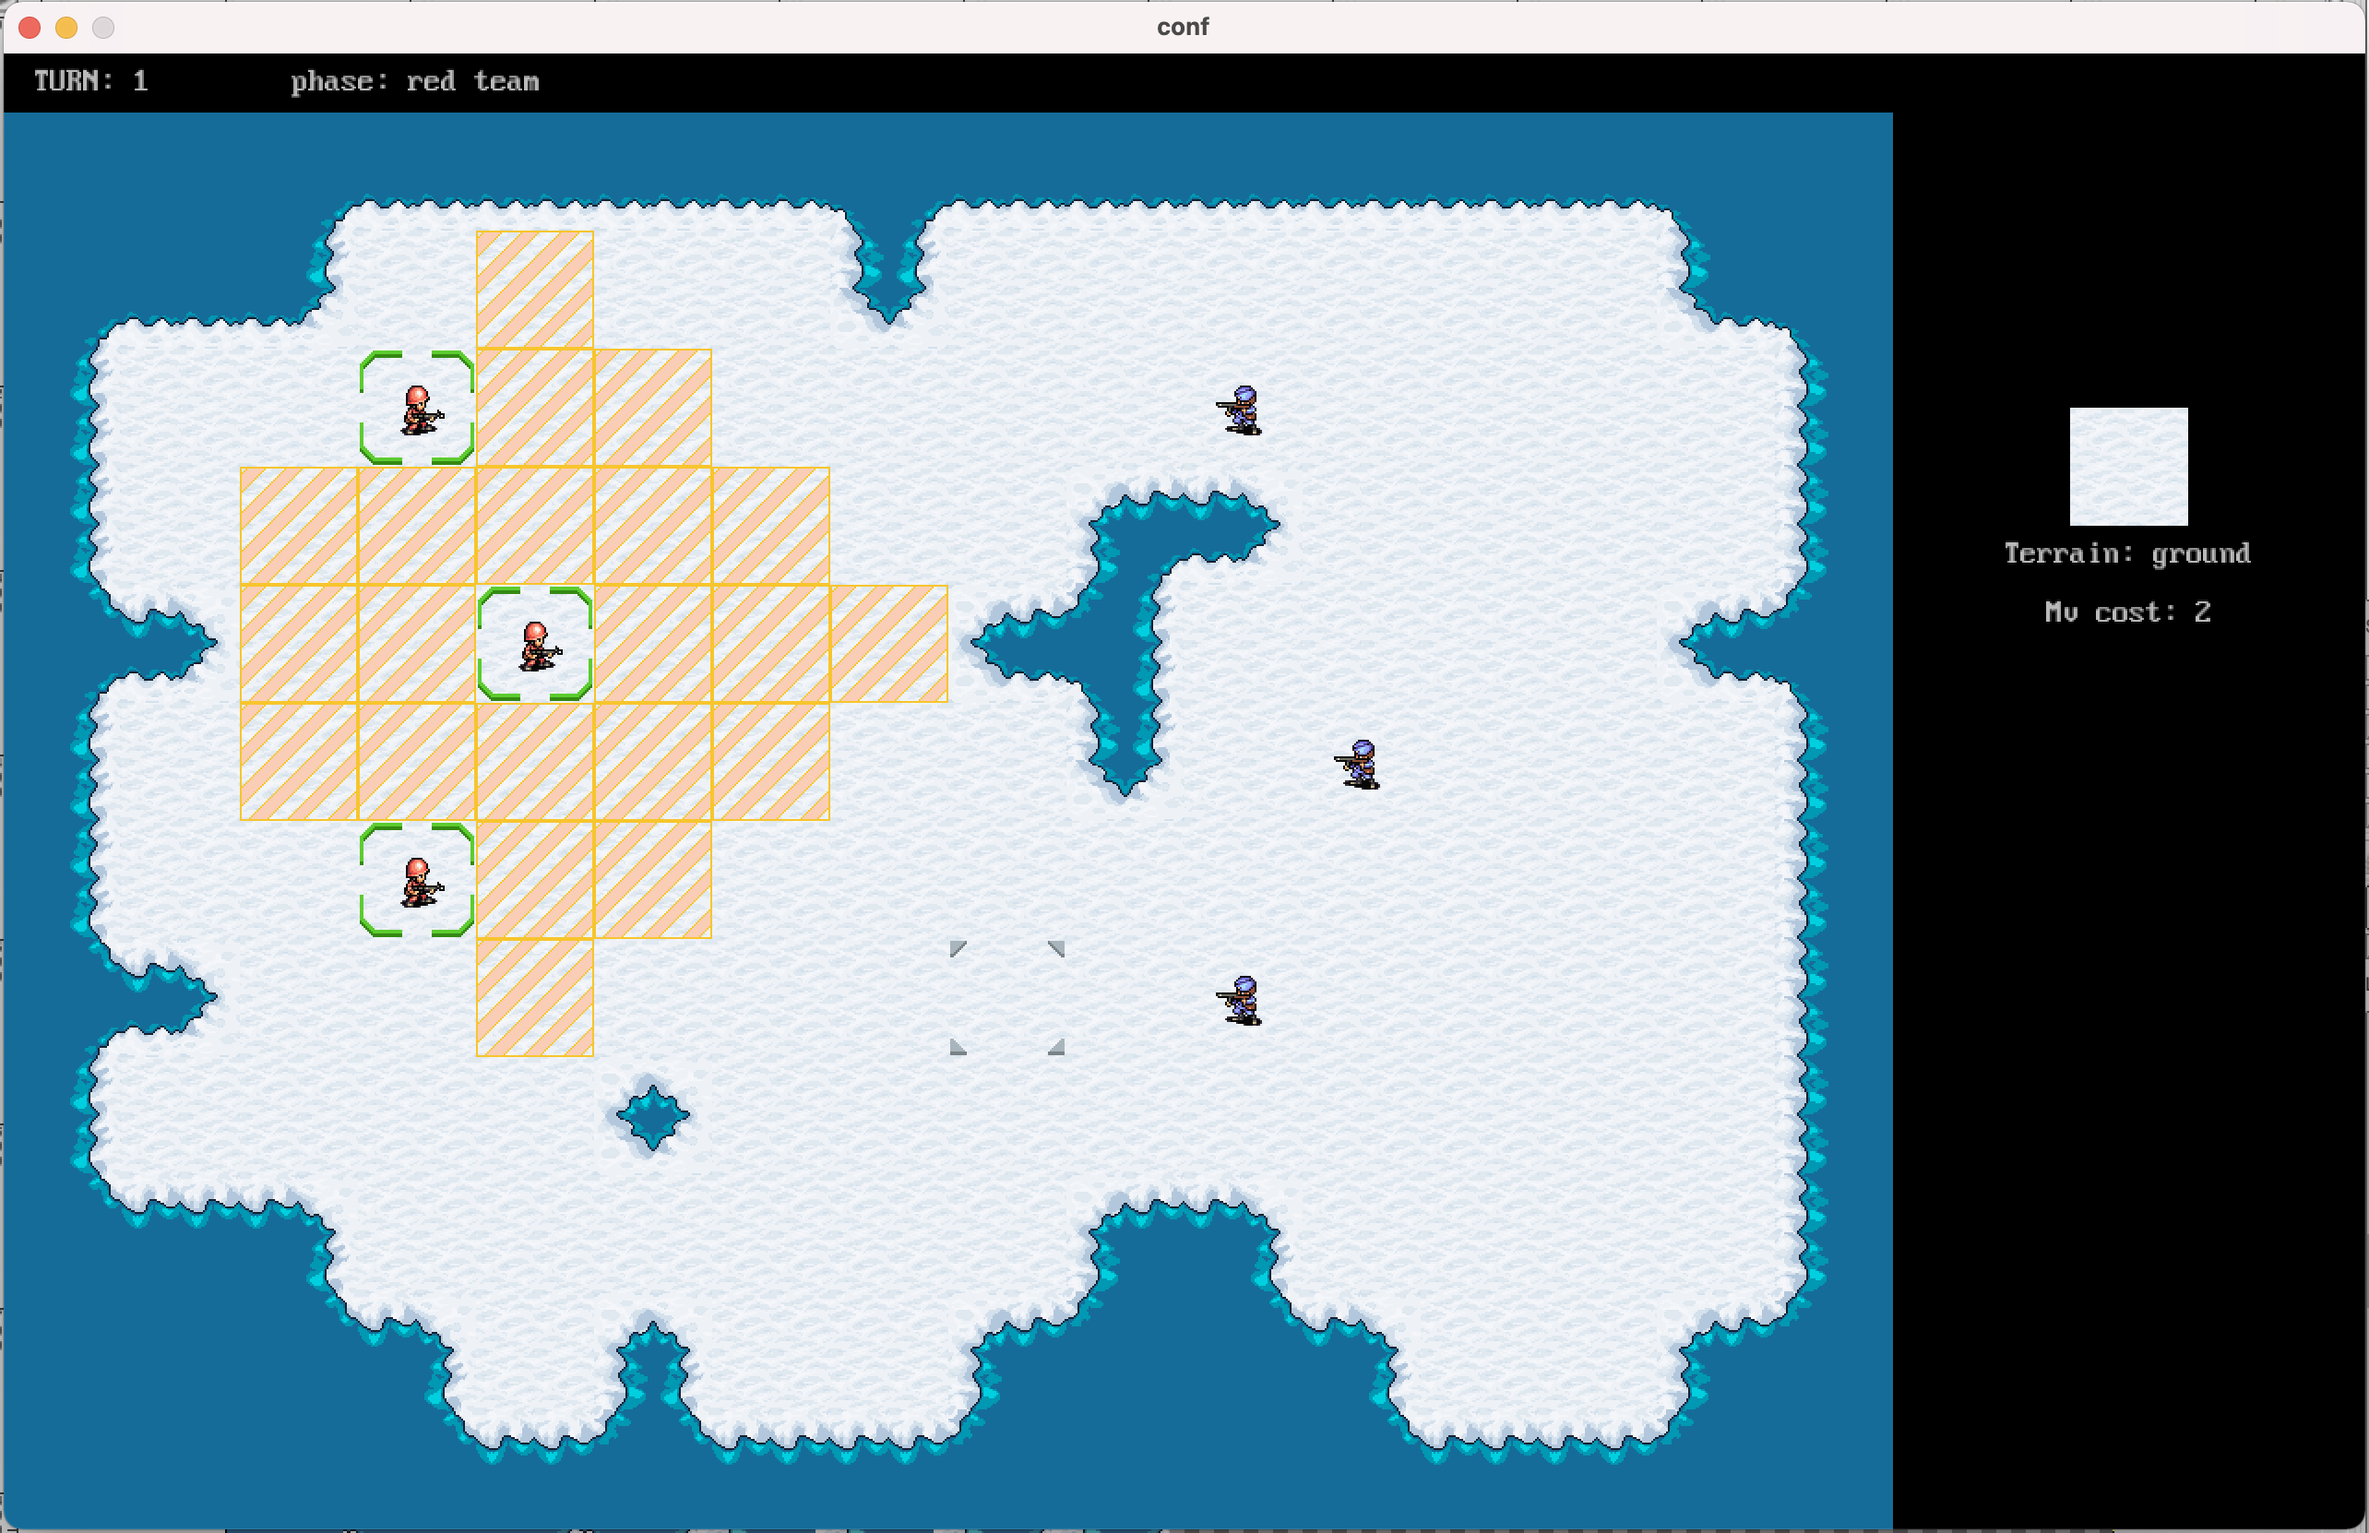
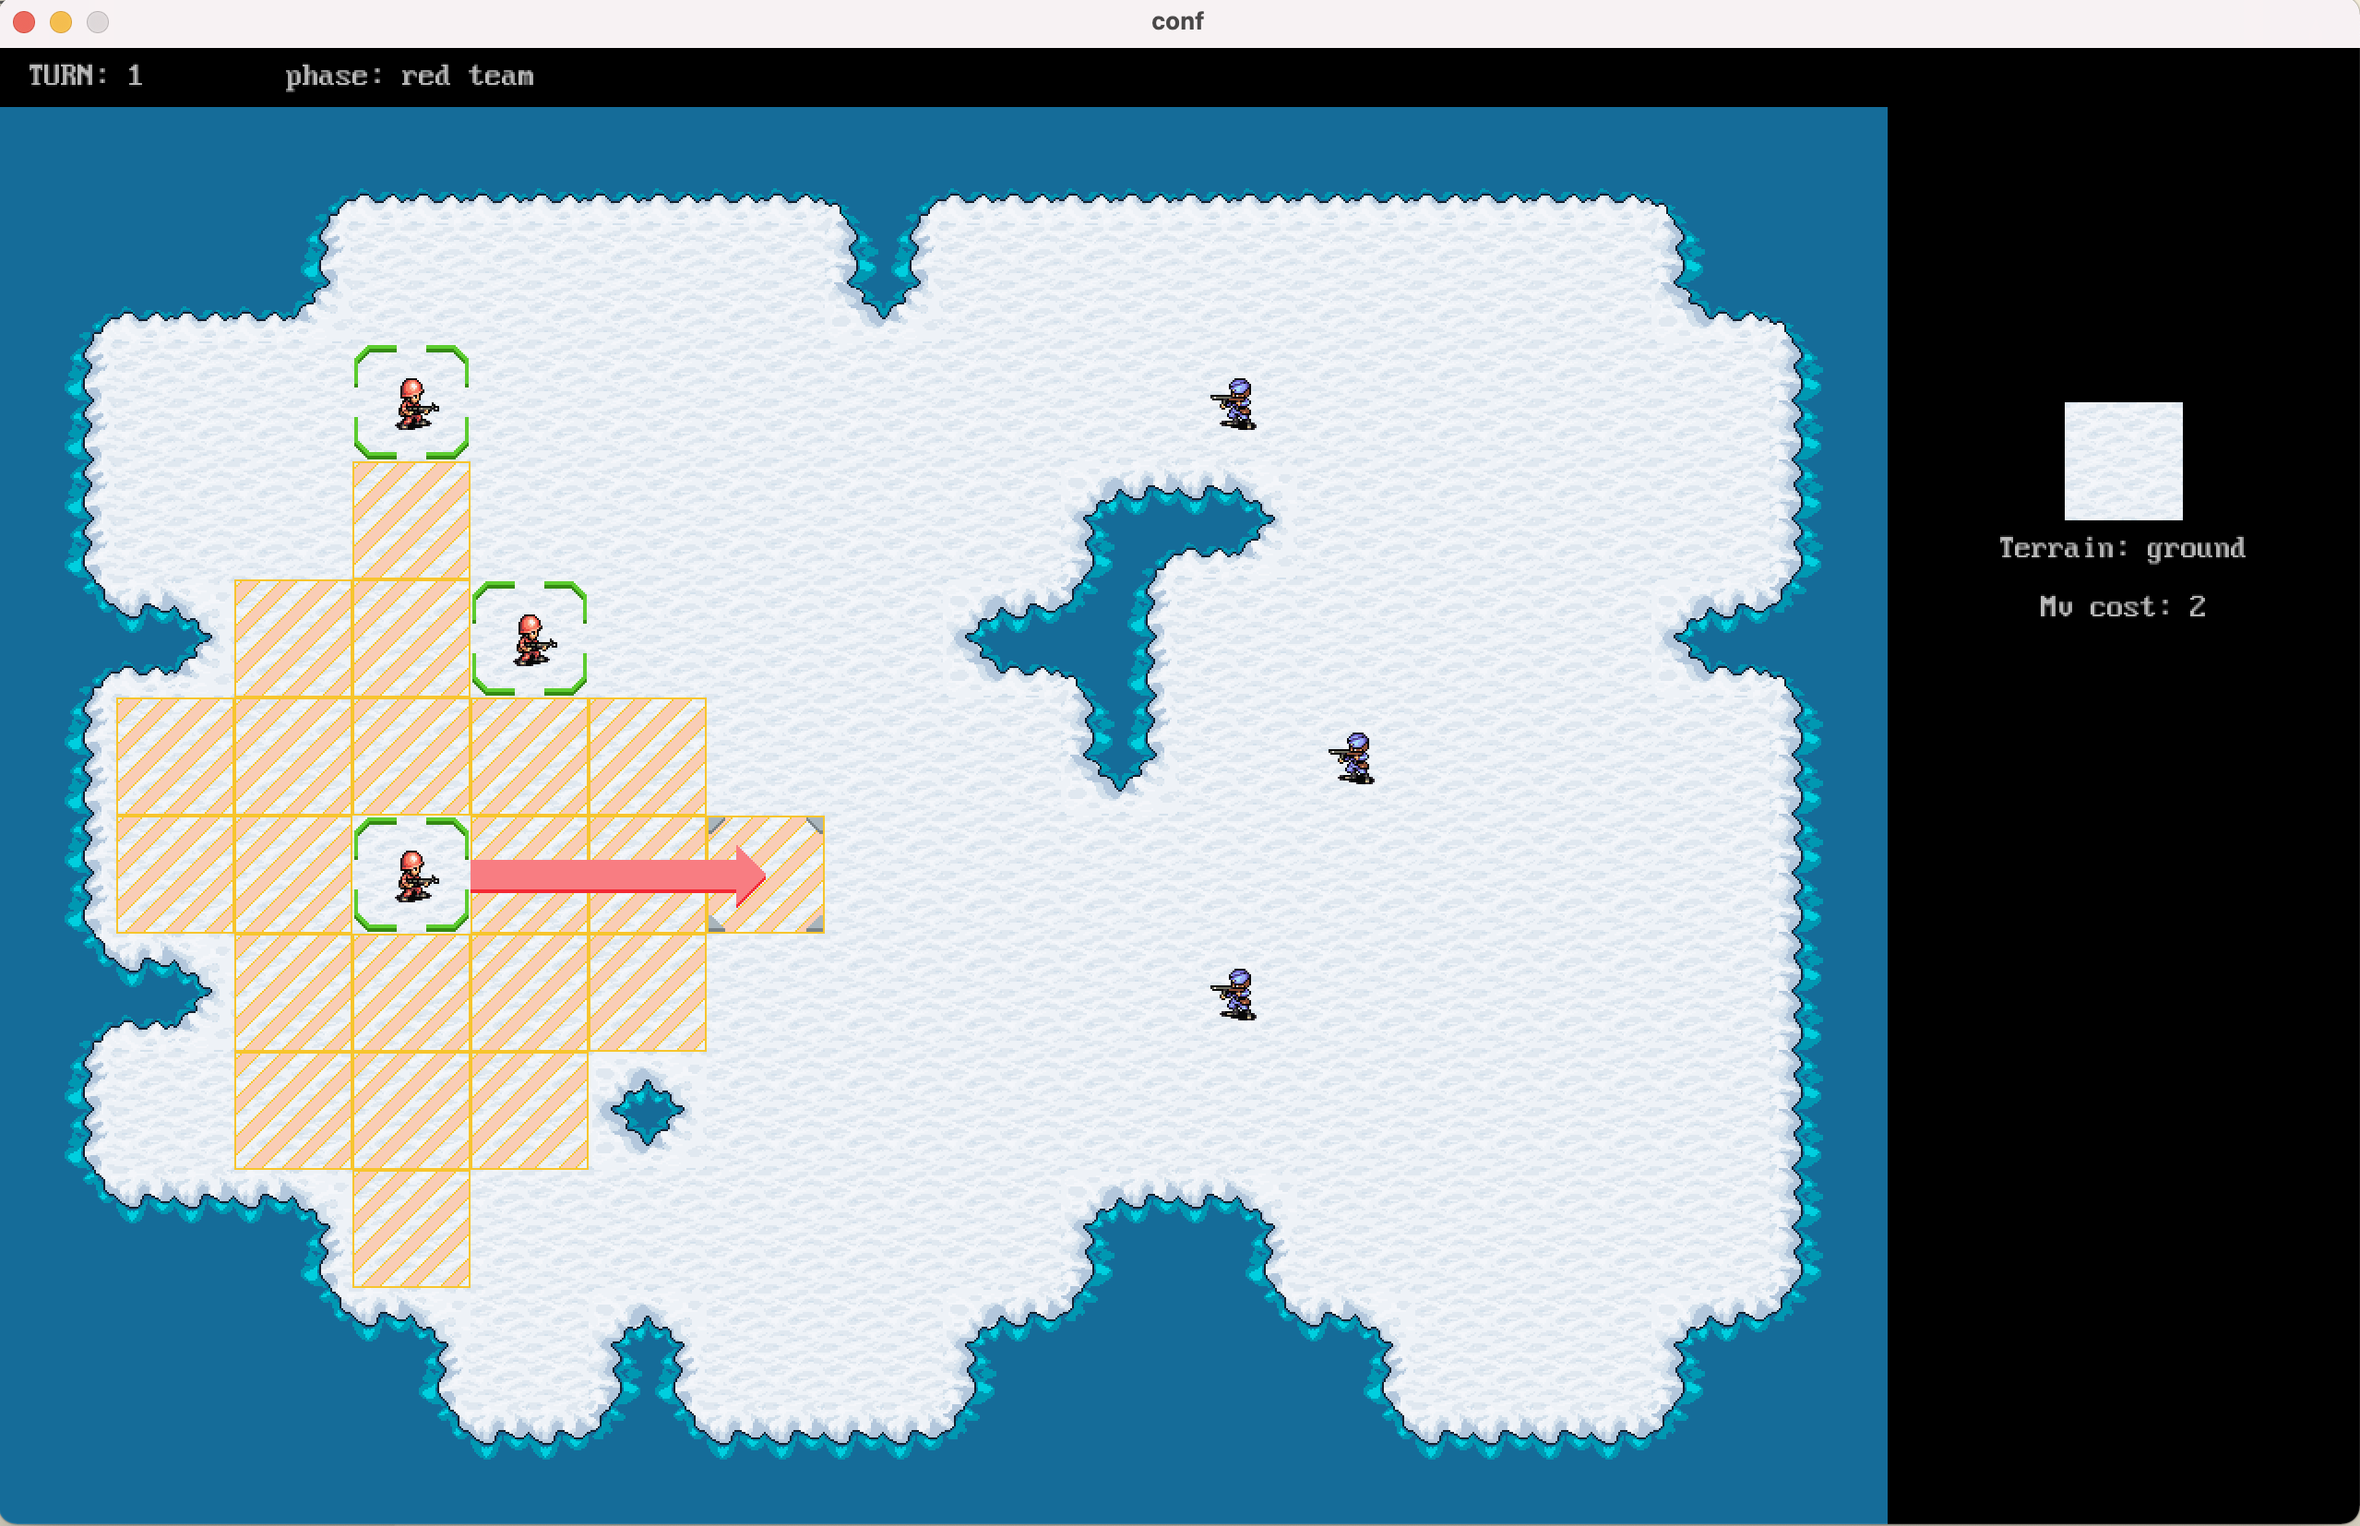
add move path

diff --git a/README.md b/README.md
@@ -13,3 +13,4 @@ Prototype of turn based strategy made with Love2d
 * [json.lua](https://github.com/rxi/json.lua "json.lua")
 * [tile-cutter](https://github.com/NickFlexer/tile-cutter "tile-cutter")
 * [hump](https://github.com/vrld/hump "hump")
+* [lua-star](https://github.com/wesleywerner/lua-star "lua-star")
